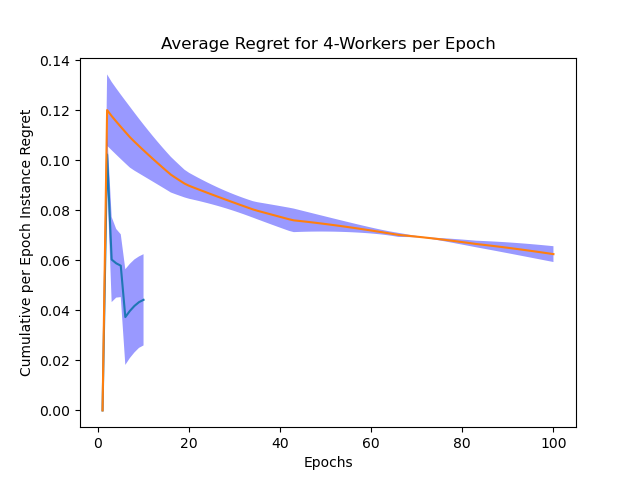
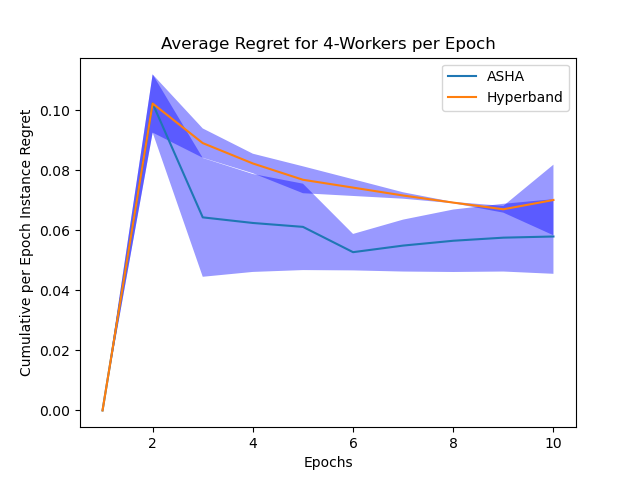
fix experiment errors

diff --git a/simulator/experiment_analysis.py b/simulator/experiment_analysis.py
@@ -1,6 +1,7 @@
 # take in 1-N experiment groups
 # if > 1, then draw comparison graphs
 
+from cProfile import label
 import matplotlib.pyplot as plt
 import numpy as np
 from typing import List
@@ -12,17 +13,28 @@ class ExperimentAnalysis:
 
     def _plot_cumulative_regrets(
         cumulative_regrets: List[List[float]],
-        cumulative_regret_errors: List[List[float]],
+        cumulative_regrets_errors: List[List[float]],
         num_workers: int,
         plot_name: str,
-        show: bool = False
+        show: bool = False,
+        names: List[str] = [],
     ) -> None:
         plt.title('Cumulative Regret for {}-Workers per Epoch'.format(num_workers))
         plt.xlabel('Epochs')
         plt.ylabel('Cumulative per Epoch Instance Regret')
-        for cumulative_regret in cumulative_regrets:
-            cumulative_regret.insert(0, 0)
-            plt.plot(list(range(1, len(cumulative_regret)+1)), cumulative_regret)
+        for cumulative_regret, cumulative_regret_errors, name in zip(cumulative_regrets, cumulative_regrets_errors, names):
+            cumulative_regret = np.insert(cumulative_regret, 0, 0)
+            cumulative_regret_errors = np.insert(cumulative_regret_errors, 0, 0)
+            plt.plot(list(range(1, len(cumulative_regret)+1)), cumulative_regret, label=name)
+            plt.fill_between(
+                list(range(1, len(cumulative_regret)+1)),
+                cumulative_regret + cumulative_regret_errors,
+                cumulative_regret - cumulative_regret_errors,
+                alpha=0.4,
+                facecolor='blue',
+                linewidth=0
+            )
+        plt.legend()
         plt.savefig(plot_name)
         if show:
             plt.show()
@@ -32,15 +44,16 @@ class ExperimentAnalysis:
         average_regrets_error: List[np.array],
         num_workers: int,
         plot_name: str,
-        show: bool = False
+        show: bool = False,
+        names: List[str] = [],
     ) -> None:
         plt.title('Average Regret for {}-Workers per Epoch'.format(num_workers))
         plt.xlabel('Epochs')
         plt.ylabel('Cumulative per Epoch Instance Regret')
-        for average_regret, average_regret_error in zip(average_regrets, average_regrets_error):
+        for average_regret, average_regret_error, name in zip(average_regrets, average_regrets_error, names):
             average_regret = np.insert(average_regret, 0, 0)
             average_regret_error = np.insert(average_regret_error, 0, 0)
-            plt.plot(list(range(1, len(average_regret)+1)), average_regret)
+            plt.plot(list(range(1, len(average_regret)+1)), average_regret, label=name)
             plt.fill_between(
                 list(range(1, len(average_regret)+1)),
                 average_regret + average_regret_error,
@@ -49,20 +62,23 @@ class ExperimentAnalysis:
                 facecolor='blue',
                 linewidth=0
             )
+        plt.legend()
         plt.savefig(plot_name)
         if show:
             plt.show()
 
     def plot_results(results: List[ExperimentGroupResults]) -> None:
-        # regrets = [result.avg_cumulative_regret for result in results]
-        # errors = [result.avg_cumulative_regret_err for result in results]
-        # ExperimentAnalysis._plot_cumulative_regrets(
-        #     regrets,
-        #     errors,
-        #     results[0].num_workers,
-        #     'Cumulative Regrets',
-        #     show=True
-        # )
+        regrets = [result.avg_cumulative_regret for result in results]
+        errors = [result.avg_cumulative_regret_err for result in results]
+        names = [result.scheduler_name for result in results]
+        ExperimentAnalysis._plot_cumulative_regrets(
+            regrets,
+            errors,
+            results[0].num_workers,
+            'Cumulative Regrets',
+            show=True,
+            names=names,
+        )
         regrets = [result.avg_mean_regret for result in results]
         errors = [result.avg_mean_regret_err for result in results]
         ExperimentAnalysis._plot_average_regrets(
@@ -70,6 +86,7 @@ class ExperimentAnalysis:
             errors,
             results[0].num_workers,
             'Average Regrets',
-            show=True
+            show=True,
+            names=names,
         )
 

diff --git a/simulator/test_experiments.py b/simulator/test_experiments.py
@@ -1,10 +1,10 @@
 from experiment_analysis import ExperimentAnalysis
 from experiment_group import ExperimentGroup
 
-egroup1 = ExperimentGroup('ASHA', None, [90, 100, 110])
+egroup1 = ExperimentGroup('ASHA', None, [90, 100, 110], save_dir="checkpoints")
 result1 = egroup1.run()
 
-egroup2 = ExperimentGroup('Hyperband', None, [90, 100, 110])
+egroup2 = ExperimentGroup('Hyperband', None, [90, 100, 110], save_dir="checkpoints")
 result2 = egroup2.run()
 
 ExperimentAnalysis.plot_results([result1, result2])
